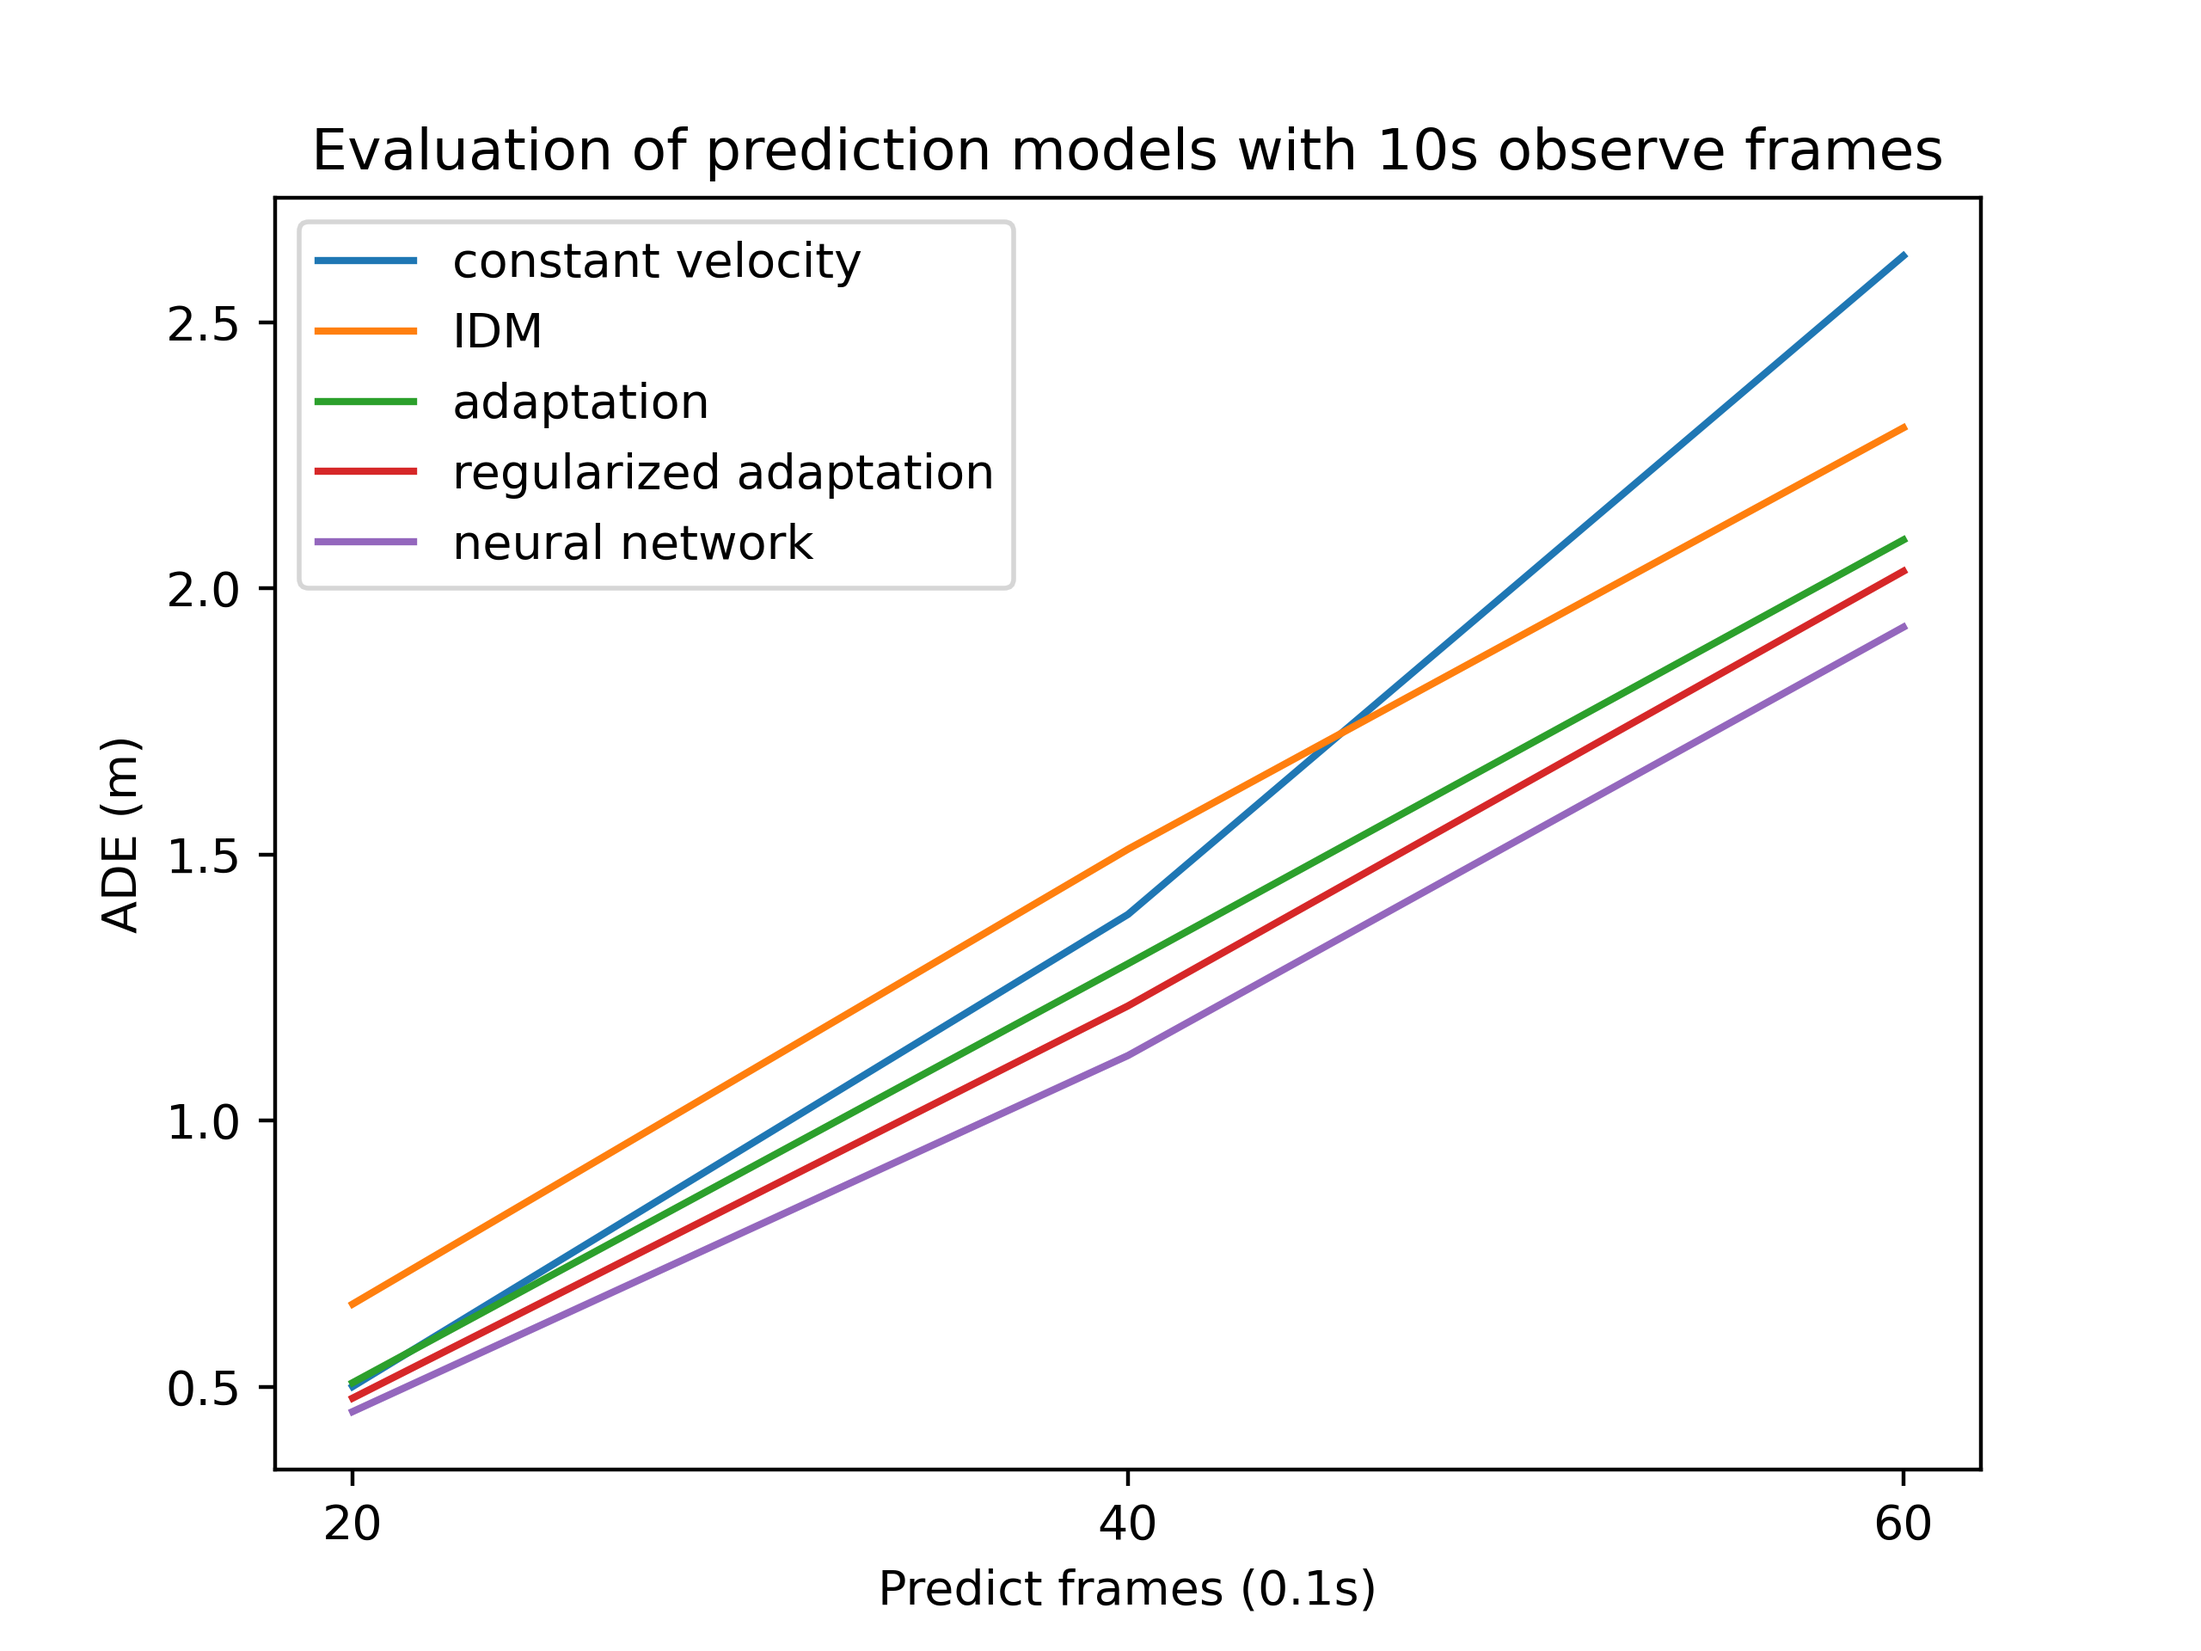
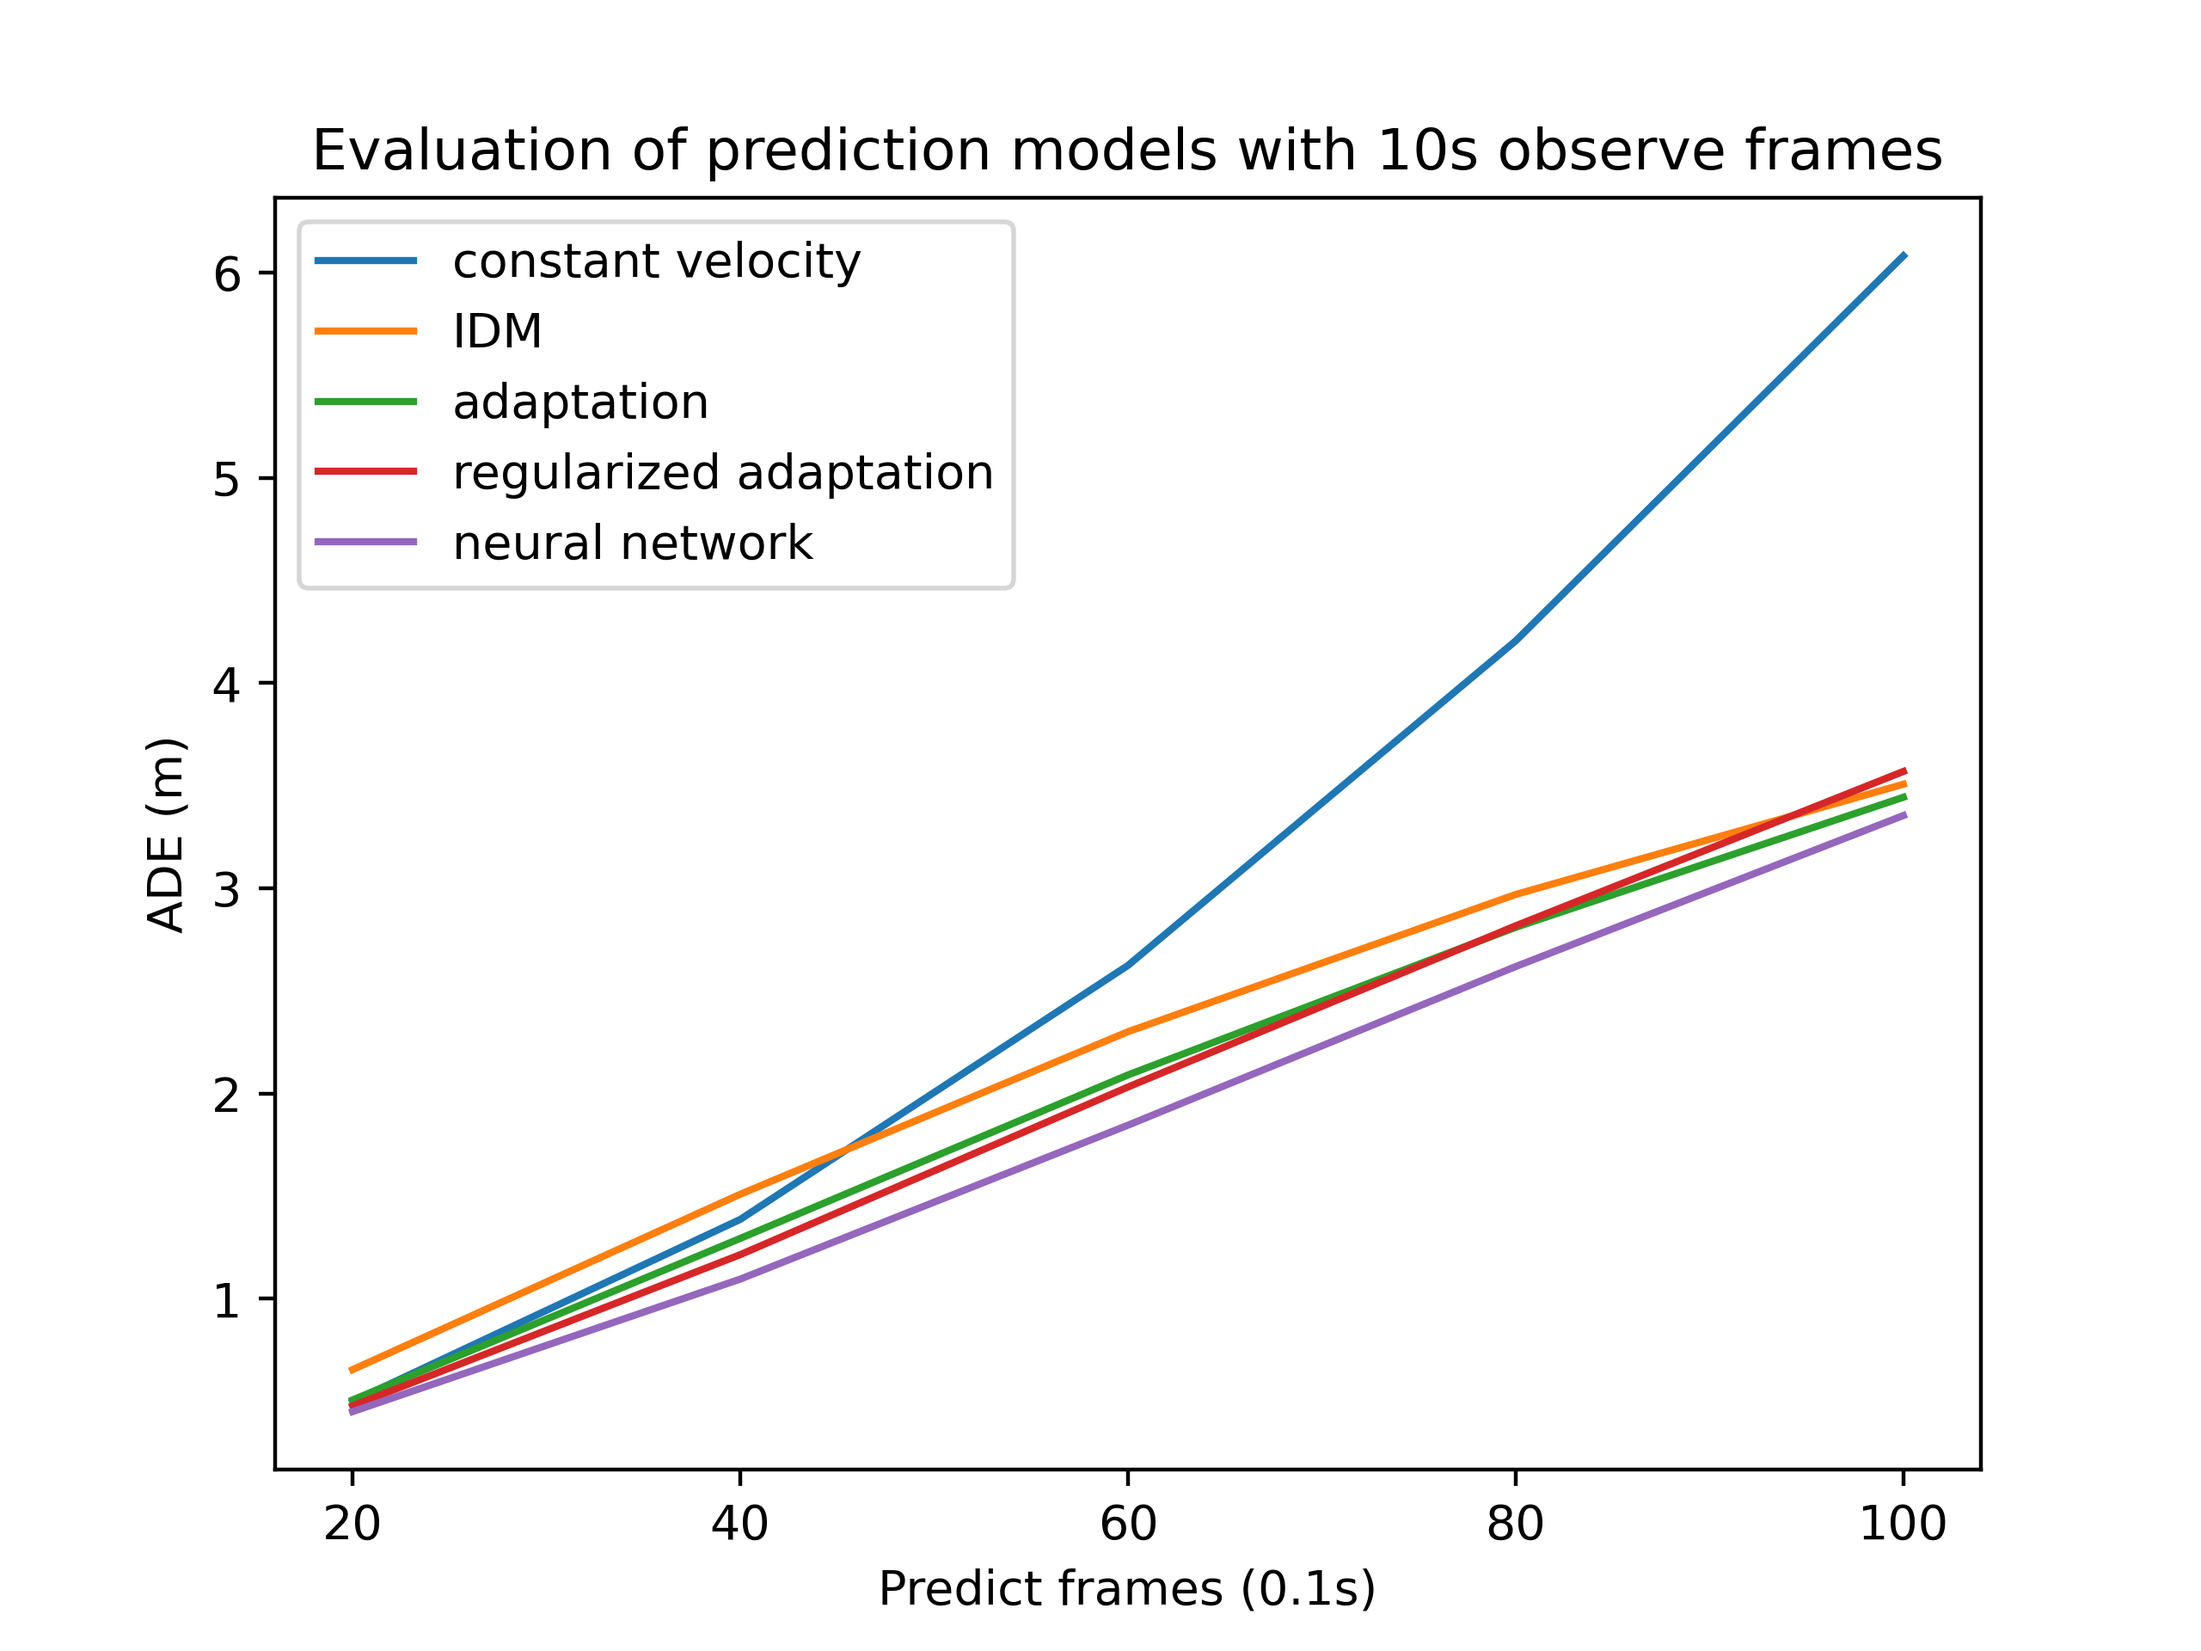
change nn model

diff --git a/pretraj/models.py b/pretraj/models.py
@@ -200,15 +200,17 @@ def neural_network(
   ds = ego.space_headway_vector[:observe_frames]
   ego_v = ego.vel_vector[:observe_frames]
   pre_v = pre.vel_vector[:observe_frames]
+  pre_a = pre.acc_vector[:observe_frames]
   Y = torch.FloatTensor(ego.acc_vector[:observe_frames][:,None]).to(device) # ground truth acceleration
 
-  X = torch.FloatTensor(np.vstack([ds, ego_v, pre_v]).T).to(device)
+  X = torch.FloatTensor(np.vstack([ds, ego_v, pre_v, pre_a]).T).to(device)
 
   model = torch.nn.Sequential(
-    torch.nn.Linear(3, 32),
+    torch.nn.Linear(4, 128),
     torch.nn.ReLU(),
-    torch.nn.Linear(32, 1)
+    torch.nn.Linear(128, 1)
   ).to(device)
+
   lr = 1e-3
   n_epoch = 50
   opt = torch.optim.Adam(model.parameters(), lr=lr)
@@ -229,7 +231,7 @@ def neural_network(
     opt.zero_grad()
 
   def control_law(ego_state, pre_state):
-    tensor = torch.FloatTensor([[ego_state.ds, ego_state.v, pre_state.v]]).to(device)
+    tensor = torch.FloatTensor([[ego_state.ds, ego_state.v, pre_state.v, pre_state.a]]).to(device)
     return model(tensor)[0][0].detach().cpu().numpy()
 
   return control_law
@@ -245,11 +247,12 @@ def pretrain_neural_network():
   ds = np.hstack([ego.space_headway_vector[:pretraj.NUM_FRAMES] for ego, _ in pretraj.vehicle_pairs_list])
   ego_v = np.hstack([ego.vel_vector[:pretraj.NUM_FRAMES] for ego, _ in pretraj.vehicle_pairs_list])
   pre_v = np.hstack([pre.vel_vector[:pretraj.NUM_FRAMES] for _, pre in pretraj.vehicle_pairs_list])
+  pre_a = np.hstack([pre.acc_vector[:pretraj.NUM_FRAMES] for _, pre in pretraj.vehicle_pairs_list])
 
   Y = torch.FloatTensor(
       np.vstack([ego.acc_vector[:pretraj.NUM_FRAMES][:,None] 
                  for ego, _ in pretraj.vehicle_pairs_list])).to(device)
-  X = torch.FloatTensor(np.vstack([ds, ego_v, pre_v]).T).to(device)
+  X = torch.FloatTensor(np.vstack([ds, ego_v, pre_v, pre_a]).T).to(device)
   permutation = torch.randperm(Y.size()[0])
   Y = Y[permutation]; X = X[permutation]
 
@@ -259,9 +262,9 @@ def pretrain_neural_network():
   
 
   model = torch.nn.Sequential(
-    torch.nn.Linear(3, 32),
+    torch.nn.Linear(4, 128),
     torch.nn.ReLU(),
-    torch.nn.Linear(32, 1)
+    torch.nn.Linear(128, 1)
   ).to(device)
 
 

diff --git a/pretraj/experiment.py b/pretraj/experiment.py
@@ -43,7 +43,7 @@ def experiment(
 def experiment_fixed_observe(draw_only=False):
   """fixed observe_frames, and change predict_frames."""
   observe_frames = 100
-  predict_frames_list = [20, 40, 60]
+  predict_frames_list = [20, 40, 60, 80, 100]
   if not draw_only: 
     print('='*10 + 'fixed observe frames' + '='*10)
     results_list = []
@@ -127,10 +127,9 @@ def experiment_runtime():
 
 
 if __name__ == '__main__':
-  # warm_up()
-  if 'checkpoint' not in os.listdir('pretraj') or \
-     'pretrain_model.pt' not in os.listdir(pretraj.CHECKPOINT_DIR):
-    models.pretrain_neural_network()
-  experiment_fixed_observe(draw_only=False)
+  # if 'checkpoint' not in os.listdir('pretraj') or \
+  #    'pretrain_model.pt' not in os.listdir(pretraj.CHECKPOINT_DIR):
+  models.pretrain_neural_network()
+  # experiment_fixed_observe(draw_only=False)
   experiment_fixed_predict(draw_only=False)
   experiment_runtime()
